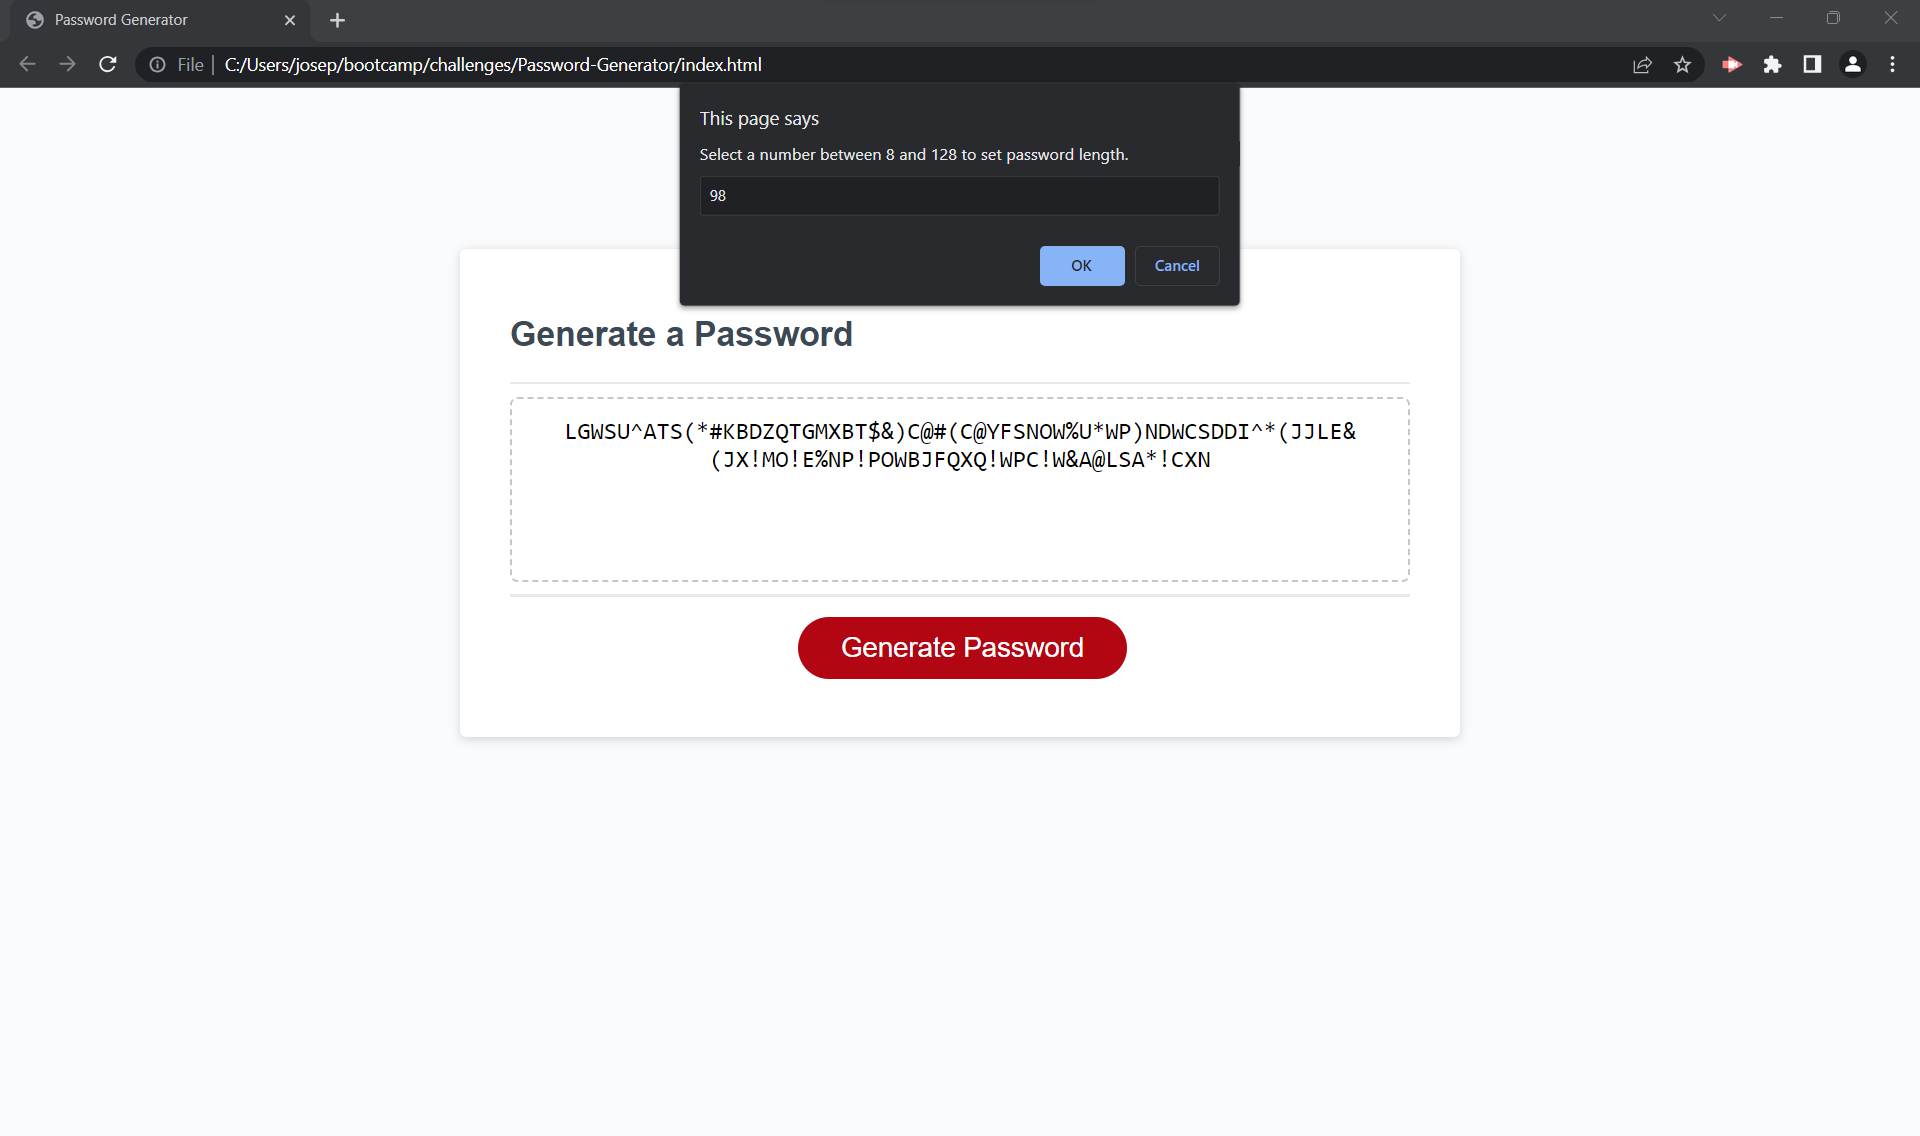
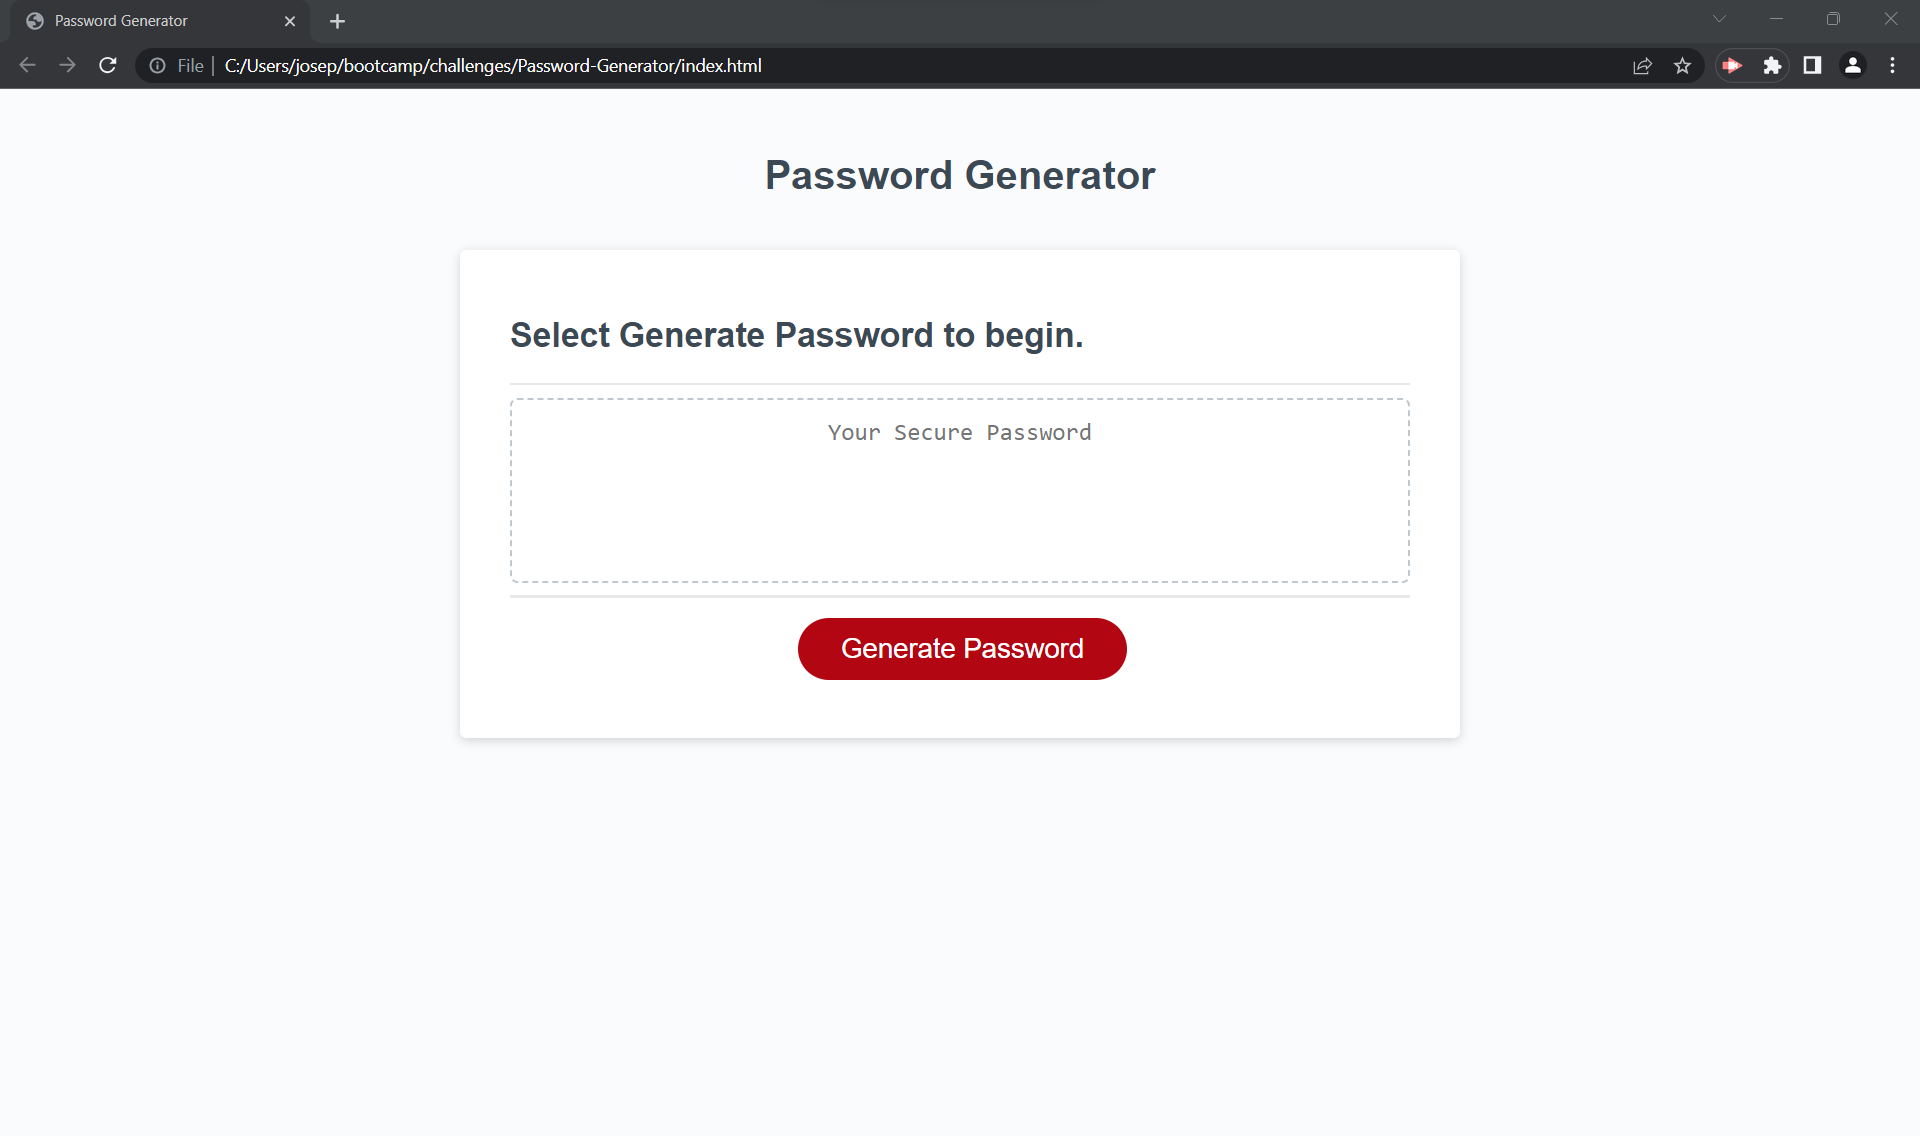
corrected typo

diff --git a/assets/script.js b/assets/script.js
@@ -12,7 +12,7 @@ function generatePassword() {
   var hasSpecialCharacter = confirm("Select OK to include special characters.")
 
   if (!hasUppercase && !hasLowercase && !hasNumber && !hasSpecialCharacter ) {
-    alert("Password must include uppercase, lowercase, numberical, or special characters.")
+    alert("Password must include uppercase, lowercase, numerical, or special characters.")
     return null;
   }
 

diff --git a/index.html b/index.html
@@ -14,7 +14,7 @@
       </header>
       <div class="card">
         <div class="card-header">
-          <h2>Generate a Password</h2>
+          <h2>Select Generate Password to begin.</h2>
         </div>
         <div class="card-body">
           <textarea
